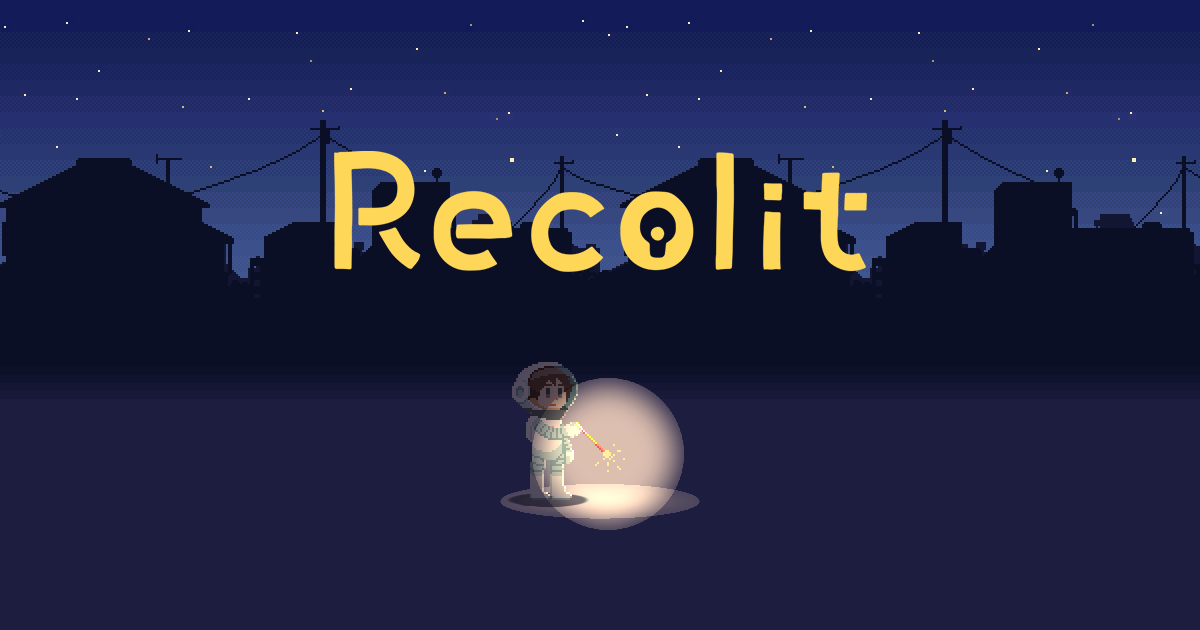
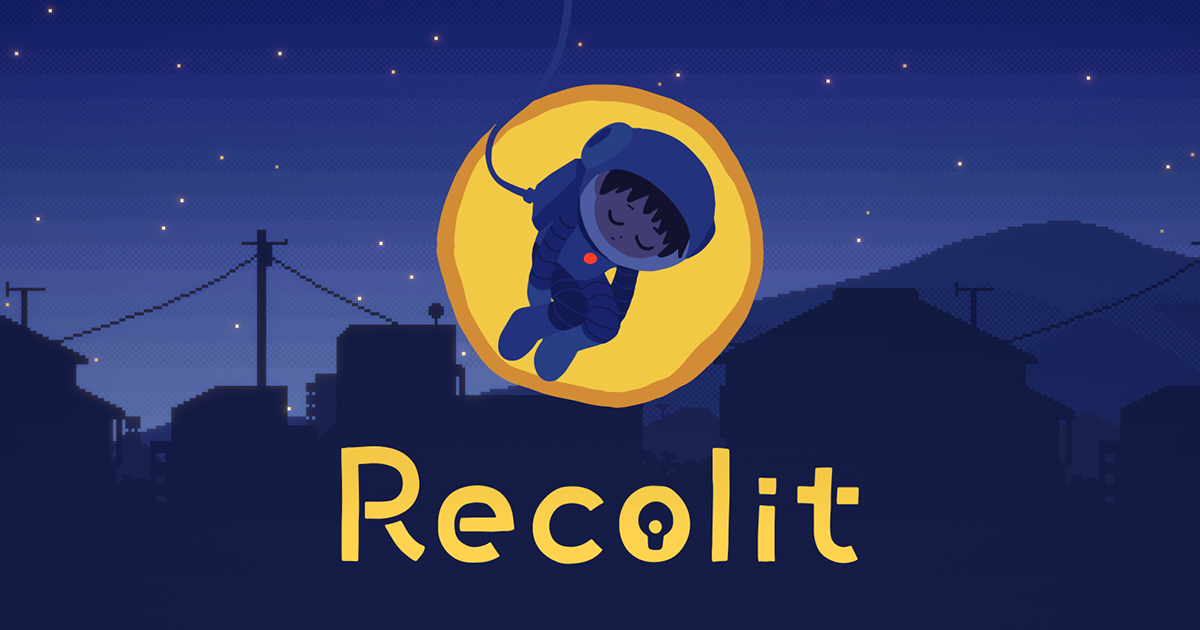
メイン画像の変更など

diff --git a/recolit/index.html b/recolit/index.html
@@ -22,6 +22,7 @@
     <meta property="og:locale" content="ja_JP" />
     <meta name="twitter:card" content="summary_large_image" />
     <meta name="twitter:site" content="@uimss_dev" />
+    <link rel="shortcut icon" href="favicon.ico">
     <link href="https://fonts.googleapis.com/css?family=Noto+Sans+JP:400,700|Palanquin+Dark&display=swap&subset=japanese" rel="stylesheet">
     <link href="assets/module/photoswipe/photoswipe.css" rel="stylesheet">
     <link href="assets/module/photoswipe/default-skin/default-skin.css" rel="stylesheet">
@@ -34,8 +35,8 @@
           <nav class="navigation">
             <a href="../"><img src="../assets/image/logo_nav.png" width="100" alt="Image Labo"></a>
           </nav>
-          <h1 class="logo"><img src="assets/image/logo.png" width=500 alt="Recolit"></h1>
-          <img class="main-image" src="assets/image/main.png" width=200 alt="main image">
+          <img class="main-image" src="assets/image/main.png" width=280 alt="main image">
+          <h1 class="logo"><img src="assets/image/logo.png" width=450 alt="Recolit"></h1>
           <section class="about">
             <p>
               <b>Recolit</b> は「明かり」をたよりに進んでいく、ドット絵ナゾ解きADVゲームです。<br>

diff --git a/recolit/assets/css/main.css b/recolit/assets/css/main.css
@@ -40,7 +40,7 @@ address {
 }
 
 .header {
-    margin: 7rem 0 3rem;
+    margin: 0 0 3rem;
     text-align: center;
 }
 
@@ -51,11 +51,11 @@ address {
 }
 
 .logo {
-    margin: 0;
+    margin: 3rem 0 7rem;
 }
 
 .main-image {
-    margin: 8rem 0 5rem;
+    margin: 0;
 }
 
 .about {
